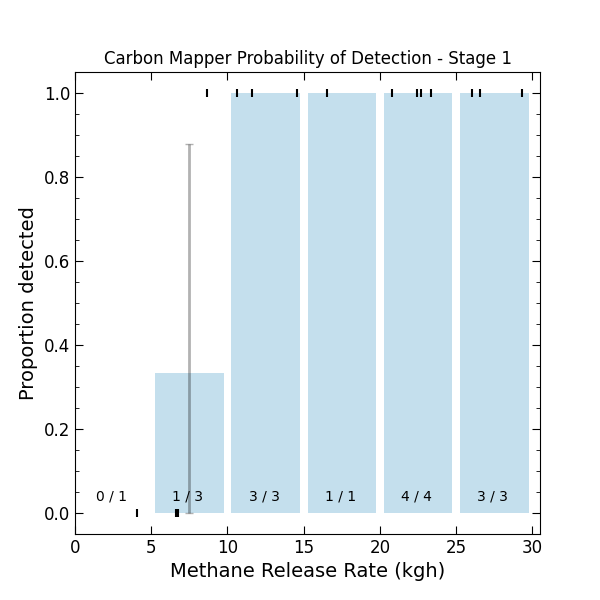
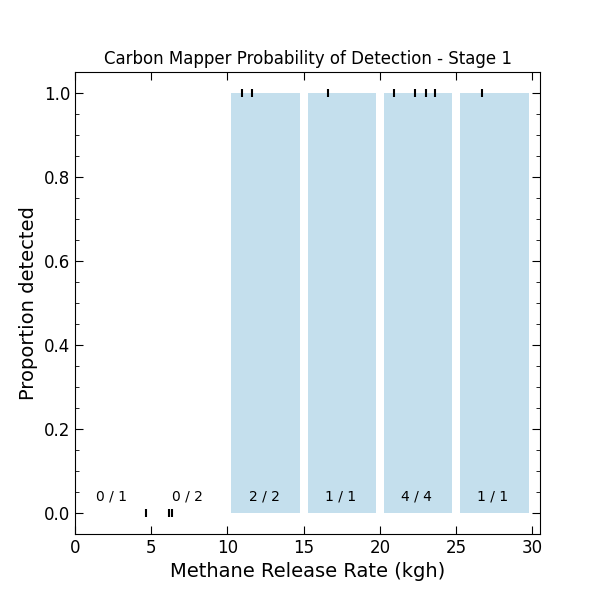
Revise probability of detection plot to not include CM points that fail their quantification QC
Added additional code to 03_summarize_results notebook to look at the CM's probability of detection in Stages 2 and 3

diff --git a/plot_methods.py b/plot_methods.py
@@ -183,10 +183,14 @@ def plot_detection_limit(operator, stage, n_bins, threshold, strict_discard=Fals
     # Load overpass summary for operator, stage, and discard criteria:
     operator_df = load_overpass_summary(operator, stage, strict_discard, time_ave, gas_comp_source)
 
-    # SciAV says
     # Apply QC filter
-    if (operator == 'Carbon Mapper') or (operator == 'Scientific Aviation'):
-        # SciAV and Carbon Mapper apply their QC to quantification estimates only
+    # For SI: Carbon Mapper's QC for determining quantification only, and treat their detection column as applied to all points
+
+    # if (operator == 'Carbon Mapper') or (operator == 'Scientific Aviation'):
+    #     operator_df = operator_df[(operator_df.stanford_kept == 1)]
+    if (operator == 'Scientific Aviation'):
+        # Scientific Aviation explicitly stated that all data could be used in determining detection, their QC only
+        # applied to quantification
         operator_df = operator_df[(operator_df.stanford_kept == 1)]
     else:
         operator_df = operator_df[(operator_df.qc_summary == 'pass_all')]
